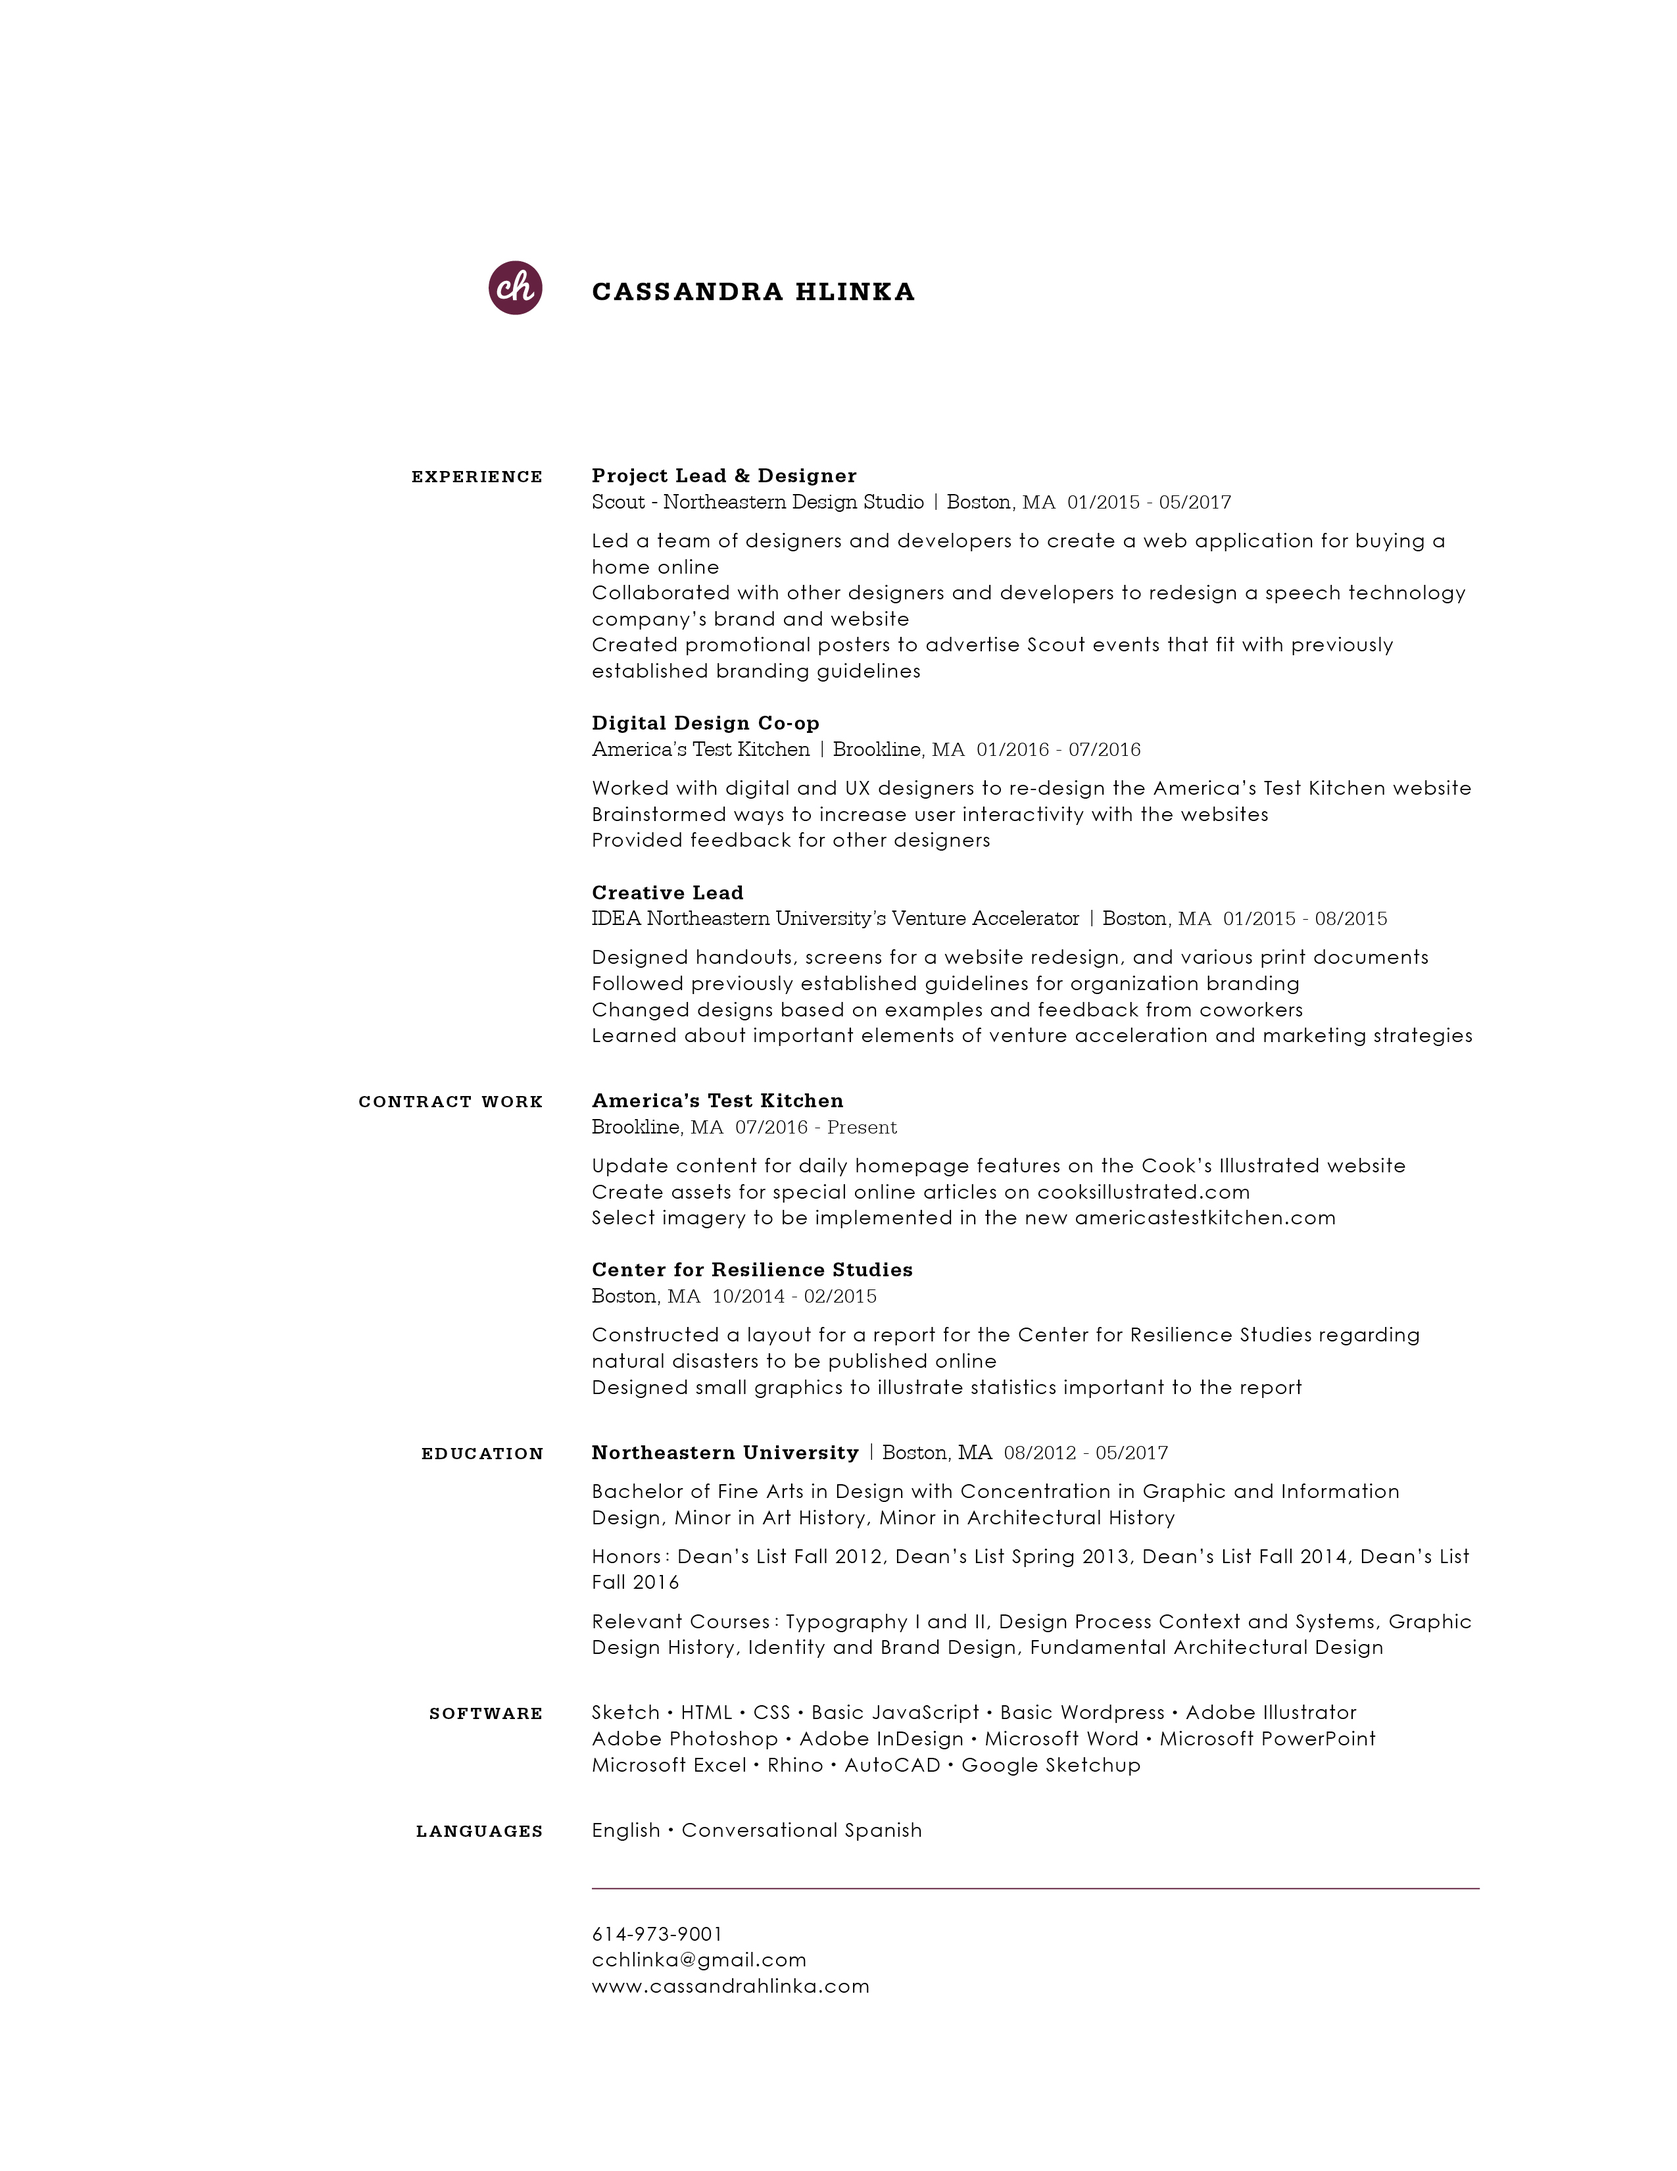
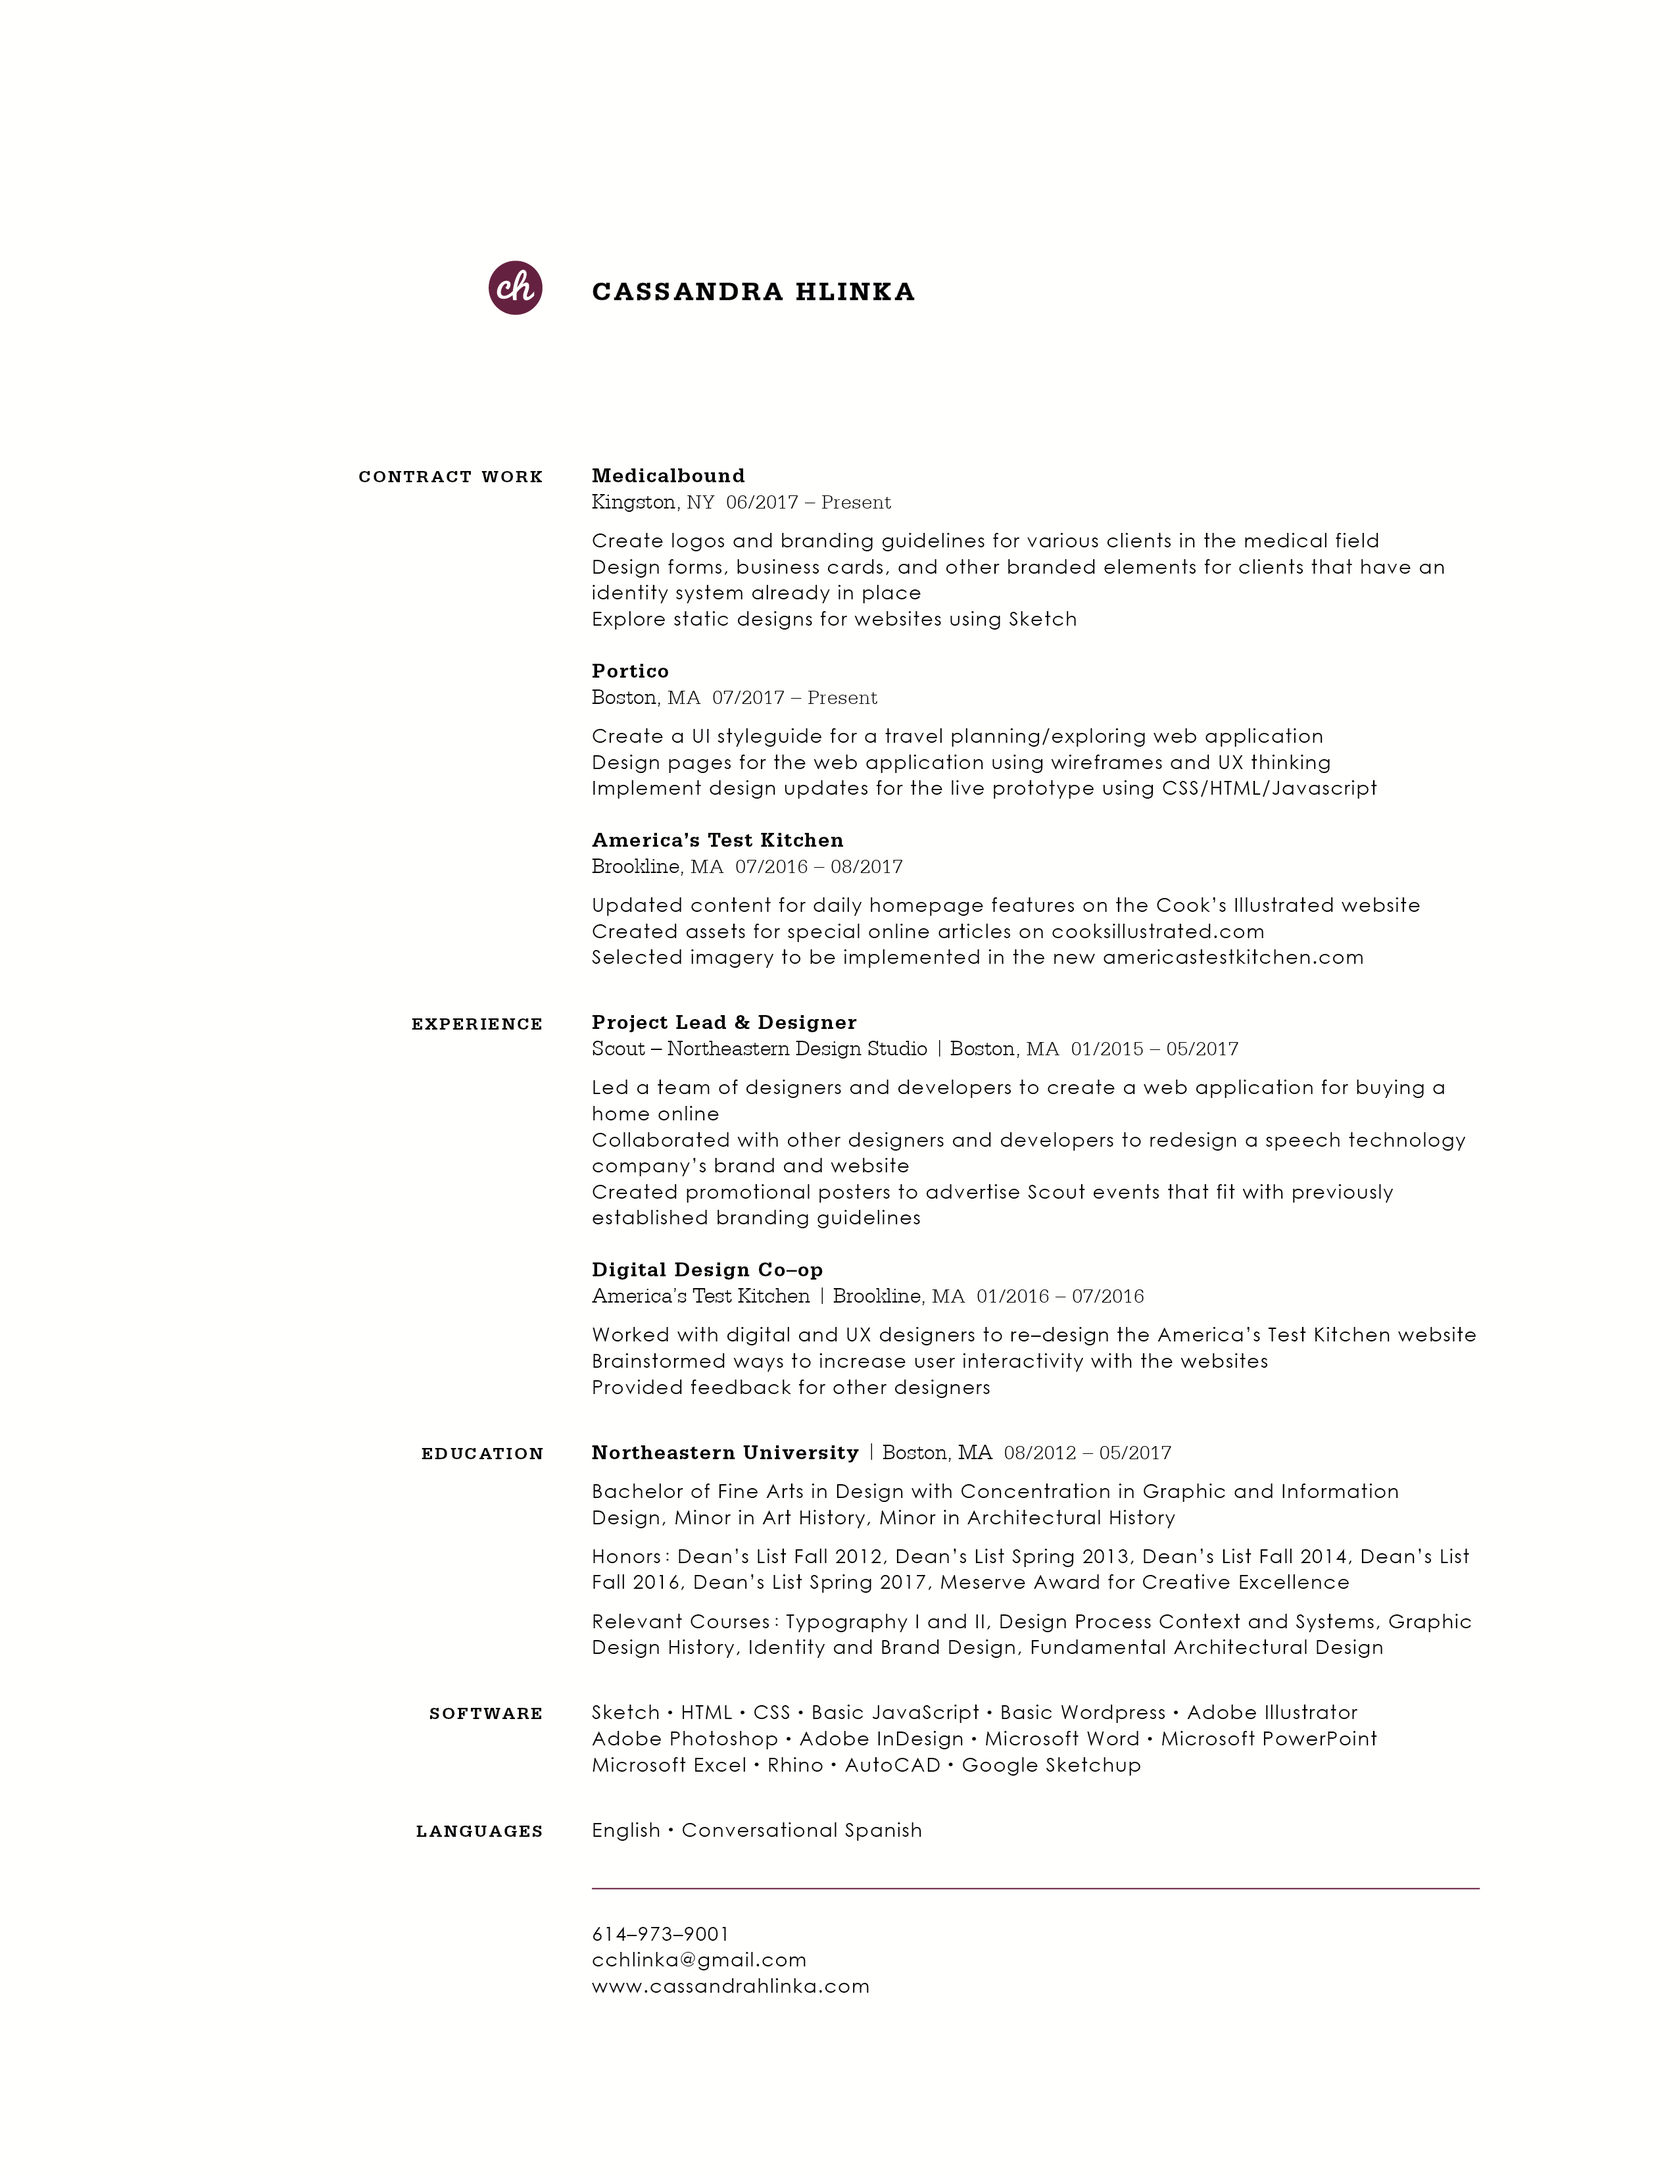
resume and about page updates

diff --git a/about.html b/about.html
@@ -84,11 +84,12 @@
           <h2>Experience</h2>
           <br>
           <h4>Currently</h4>
-          <p>Freelance Designer for <a target="blank" href="https://www.americastestkitchen.com/">America's Test Kitchen</a></p>
+          <p>Contract Graphic Designer and Developer for <a target="blank" href="http://www.medicalbound.com/">Medicalbound</a></p>
+          <p>Contract UX/UI Designer for <a target="blank" href="https://portico.travel/">Portico</a></p>
           <br>
-          <h4>January 2016 &ndash; July 2016</h4>
+          <!-- <h4>January 2016 &ndash; July 2016</h4>
           <p>Digital Design Co-op at <a target="blank" href="https://www.americastestkitchen.com/">America's Test Kitchen</a></p>
-          <br>
+          <br> -->
           <a href="resume.html">See More on my Resume Page</a>
         </div>
       </div>
